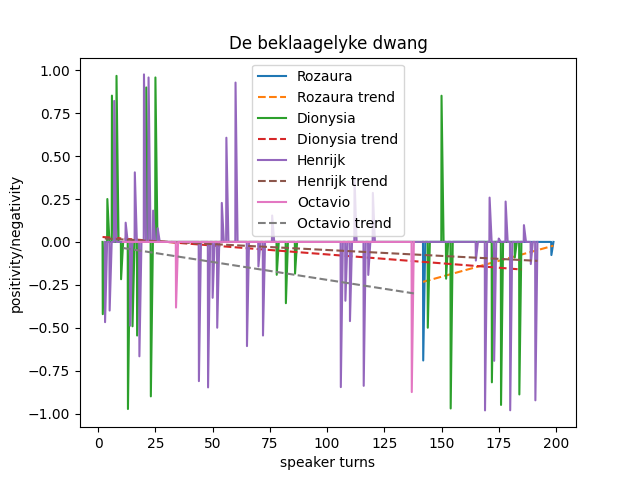
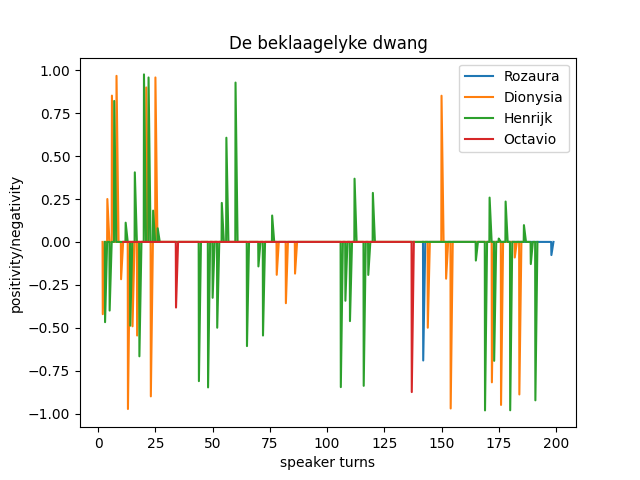
Added seperate trendline plots

diff --git a/sentiment_visualisation.py b/sentiment_visualisation.py
@@ -38,6 +38,9 @@ class SentimentVisualisation():
         # plot sentiment against turns for every speaker
         self.plot_sentiment()
 
+        # plot trendline 
+        self.plot_trend()
+
         # clean text dic and store in csv
         for turn in self.text:
             self.text[turn] = ' '.join(self.text[turn])
@@ -174,11 +177,6 @@ class SentimentVisualisation():
             ydata = [value for turn, value in tuplelist]
             plt.plot(xdata, ydata, label=speaker)
 
-            # plot trendline 
-            zdata = np.polyfit(xdata, ydata, 1)
-            trend = np.poly1d(zdata)
-            plt.plot(xdata,trend(xdata), label=f'{speaker} trend', linestyle='--')
-
             # set axis labels and plot title
             plt.xlabel('speaker turns')
             plt.ylabel('positivity/negativity')
@@ -186,6 +184,31 @@ class SentimentVisualisation():
 
         plt.legend()
         plt.savefig(f'results/sentiment_plots/{self.title}.png')
+        plt.close()
+
+
+    def plot_trend(self):
+
+        plt.figure()
+
+        # plot for every speaker the sentiment values against the turns
+        for speaker in self.speakers:
+            tuplelist = sorted([(turn, value) for turn, value in self.play[speaker].items()])
+            xdata = [turn for turn, value in tuplelist]
+            ydata = [value for turn, value in tuplelist]
+
+            # plot trendline 
+            zdata = np.polyfit(xdata, ydata, 1)
+            trend = np.poly1d(zdata)
+            plt.plot(xdata,trend(xdata), label=f'{speaker}')
+
+            # set axis labels and plot title
+            plt.xlabel('speaker turns')
+            plt.ylabel('positivity/negativity')
+            plt.title(self.title)
+
+        plt.legend()
+        plt.savefig(f'results/sentiment_plots/{self.title}_trend.png')
         plt.close()
 
     
